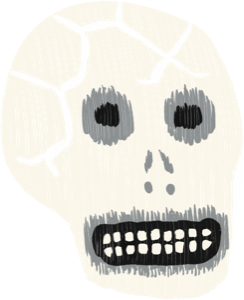
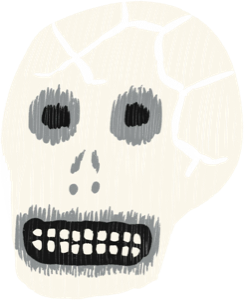
パターンオーダーのドクロをスカルに改め向きと大きさを直し、スマホで柄の欄が白く残るのを直す

diff --git a/pages/pattern.html b/pages/pattern.html
@@ -6,7 +6,7 @@
     <span class="en">PATTERN<br>ORDER</span>
     <span class="sub">パターンオーダースカジャン — 鷲・虎・龍の柄と地名を選んで、一着を仕立てます</span>
   </h1>
-  <p class="lead hero__lead">胸と背中の柄を鷲・虎・龍・ドクロなどから選び、背中に入れる文字を「JAPAN」「YOKOSUKA」と47都道府県から選びます。ジャケットはお持ち込みか、別珍の黒から。選んだ組み合わせはその場で画面に描き出され、金額もそのまま出ます。</p>
+  <p class="lead hero__lead">胸と背中の柄を鷲・虎・龍・スカルなどから選び、背中に入れる文字を「JAPAN」「YOKOSUKA」と47都道府県から選びます。ジャケットはお持ち込みか、別珍の黒から。選んだ組み合わせはその場で画面に描き出され、金額もそのまま出ます。</p>
   <div class="btns">
     <a class="btn btn--solid" href="#builder">柄を選ぶ</a>
     <a class="btn btn--ghost" href="order.html">柄から描き起こすフルオーダーはこちら</a>
@@ -21,12 +21,12 @@
     </div>
     <div class="band__main">
       <h2>選べるのは、<br>柄・文字・ジャケットの3つです</h2>
-      <p class="lead">柄はスカジャンの定番である<strong>鷲・虎・龍</strong>に、<strong>虎の顔・ドクロ・ドクロとヘビ</strong>を加え、横地広海知がこのパターンオーダーのために描き下ろしました。右胸・左胸・背中のそれぞれに5つの柄から好きなものを選べます（背中の虎は2種類）。組み合わせは125通りです。</p>
+      <p class="lead">柄はスカジャンの定番である<strong>鷲・虎・龍</strong>に、<strong>虎の顔・スカル・スカルとヘビ</strong>を加え、横地広海知がこのパターンオーダーのために描き下ろしました。右胸・左胸・背中のそれぞれに5つの柄から好きなものを選べます（背中の虎は2種類）。組み合わせは125通りです。</p>
       <p class="lead">背中には<strong>「JAPAN」、スカジャン発祥の地の「YOKOSUKA」、47都道府県のどれか</strong>を文字で入れます。文字の形は3種類からお選びください。地元の名前を背負う、スーベニアジャケット本来の着方です。</p>
       <div class="rows">
         <div class="row">
           <div><h3>柄</h3></div>
-          <div><p>右胸・左胸は鷲・虎・龍・虎の顔・ドクロ、背中は鷲・虎（竹と富士）・虎（岩）・龍・ドクロとヘビから</p></div>
+          <div><p>右胸・左胸は鷲・虎・龍・虎の顔・スカル、背中は鷲・虎（竹と富士）・虎（岩）・龍・スカルとヘビから</p></div>
         </div>
         <div class="row">
           <div><h3>文字</h3></div>
@@ -44,7 +44,8 @@
 </section>
 
 <div class="panel">
-  <section class="band rise" id="builder">
+  <!-- 縦に長いので .rise を付けない。スクロール連動の表示が終わらず、スマホで白っぽく残る -->
+  <section class="band" id="builder">
     <div class="band__grid">
       <div class="band__aside">
         <p class="tag"><span class="tag__en">BUILD YOURS</span><span class="tag__ja">組み合わせる</span></p>
@@ -160,7 +161,7 @@
   </section>
 </div>
 
-<section class="band rise">
+<section class="band">
   <div class="band__grid">
     <div class="band__aside">
       <p class="tag"><span class="tag__en">ORDER</span><span class="tag__ja">お申し込み</span></p>
@@ -354,7 +355,7 @@
     { v:"tiger",  ja:"虎" },
     { v:"dragon", ja:"龍" },
     { v:"tiger-head", ja:"虎（顔）" },
-    { v:"skull",  ja:"ドクロ" }
+    { v:"skull",  ja:"スカル", scale:0.9 }   // scale: 枠に対する大きさ（既定 1）
   ];
   /* 背中だけ虎が2種類。back/tiger-rock.png が岩に座る虎 */
   const BACKS = [
@@ -362,7 +363,7 @@
     { v:"tiger",      ja:"虎（竹と富士）" },
     { v:"tiger-rock", ja:"虎（岩）" },
     { v:"dragon",     ja:"龍" },
-    { v:"skull-snake", ja:"ドクロとヘビ" }
+    { v:"skull-snake", ja:"スカルとヘビ" }
   ];
   /* 文字の形。書体の名前（筆記体・ラウンドスラブ・サンセリフ）を知らない人にも
      分かる呼び名にしている。canvas は文字画像が無いあいだの代わりの書体 */
@@ -507,6 +508,8 @@
   document.querySelector(".po__view").addEventListener("dragstart", e => e.preventDefault());
 
   function px(box){ return [box[0] * W / 100, box[1] * H / 100, box[2] * W / 100, box[3] * H / 100]; }
+  /* 枠を中心を保ったまま k 倍にする */
+  const shrink = (r, k) => [r[0] + r[2] * (1 - k) / 2, r[1] + r[3] * (1 - k) / 2, r[2] * k, r[3] * k];
   function fit(ctx, im, r){
     const k = Math.min(r[2] / im.naturalWidth, r[3] / im.naturalHeight);
     const w = im.naturalWidth * k, h = im.naturalHeight * k;
@@ -558,11 +561,11 @@
   function draw(side, s){
     const my = ++seq[side];
     const layers = side === "front"
-      ? [ { box:BOX.chestR, src:IMG + "chest-r/" + s.chestR.v + ".png", label:s.chestR.ja + "（右胸）" },
-          { box:BOX.chestL, src:IMG + "chest-l/" + s.chestL.v + ".png", label:s.chestL.ja + "（左胸）" } ]
+      ? [ { box:BOX.chestR, src:IMG + "chest-r/" + s.chestR.v + ".png", label:s.chestR.ja + "（右胸）", scale:s.chestR.scale },
+          { box:BOX.chestL, src:IMG + "chest-l/" + s.chestL.v + ".png", label:s.chestL.ja + "（左胸）", scale:s.chestL.scale } ]
       : [ { box:BOX.font[s.font.v], src:IMG + "text/" + s.font.v + "/" + s.place.v + ".png",
             label:word(s.place, s.font), font:s.font.canvas, accent:true },
-          { box:BOX.back, src:IMG + "back/" + s.back.v + ".png", label:s.back.ja + "（背中）" } ];
+          { box:BOX.back, src:IMG + "back/" + s.back.v + ".png", label:s.back.ja + "（背中）", scale:s.back.scale } ];
     Promise.all([load(IMG + "body/" + side + ".png")].concat(layers.map(l => load(l.src))))
       .then(function(ims){
         if(my !== seq[side]) return;   // 連打で古い描画が後から被らないように
@@ -574,7 +577,7 @@
           let any = false;
           layers.forEach(function(l, i){
             const im = ims[i + 1], r = px(l.box);
-            if(im){ fit(ctx, im, r); any = true; }
+            if(im){ fit(ctx, im, shrink(r, l.scale || 1)); any = true; }
             else placeholder(ctx, r, l.label, l.font || JP, l.accent);
           });
           if(any) watermark(ctx);

diff --git a/pages/index.html b/pages/index.html
@@ -84,7 +84,7 @@
           </div>
           <div class="row">
             <div><p class="row__k">03 — Pattern order／個人のお客様へ</p><h3>柄を選んで作る</h3></div>
-            <div><p>描き下ろしの鷲・虎・龍・ドクロなどを胸と背中に選び、背中に「JAPAN」「YOKOSUKA」か47都道府県の名前を入れる一着。選んだ組み合わせはその場で画面に描き出されます。<strong>110,000円（税込）〜</strong>。<br><a class="link" href="pattern.html">パターンオーダーで柄を選ぶ</a></p></div>
+            <div><p>描き下ろしの鷲・虎・龍・スカルなどを胸と背中に選び、背中に「JAPAN」「YOKOSUKA」か47都道府県の名前を入れる一着。選んだ組み合わせはその場で画面に描き出されます。<strong>110,000円（税込）〜</strong>。<br><a class="link" href="pattern.html">パターンオーダーで柄を選ぶ</a></p></div>
           </div>
           <div class="row">
             <div><p class="row__k">04 — OEM</p><h3>ブランドの別注・量産</h3></div>
